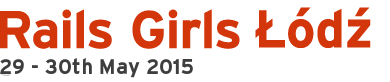
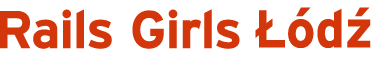
header image improved

Changed region(s): [[0.0, 0.7073, 0.4923, 0.9512]]

diff --git a/css/style.css b/css/style.css
@@ -878,7 +878,7 @@ background:url('../images/rg-yourcityname.png') no-repeat 0 10px,
                          url('../images/separator.png') no-repeat center bottom;
         }
 .lodz2016#promo h1 {
-  background:url('../images/rg-lodz-header-2015.png') no-repeat left top;
+  background:url('../images/rg-lodz-header-2016.png') no-repeat left top;
 }
 
 .saarbruecken#promo {
